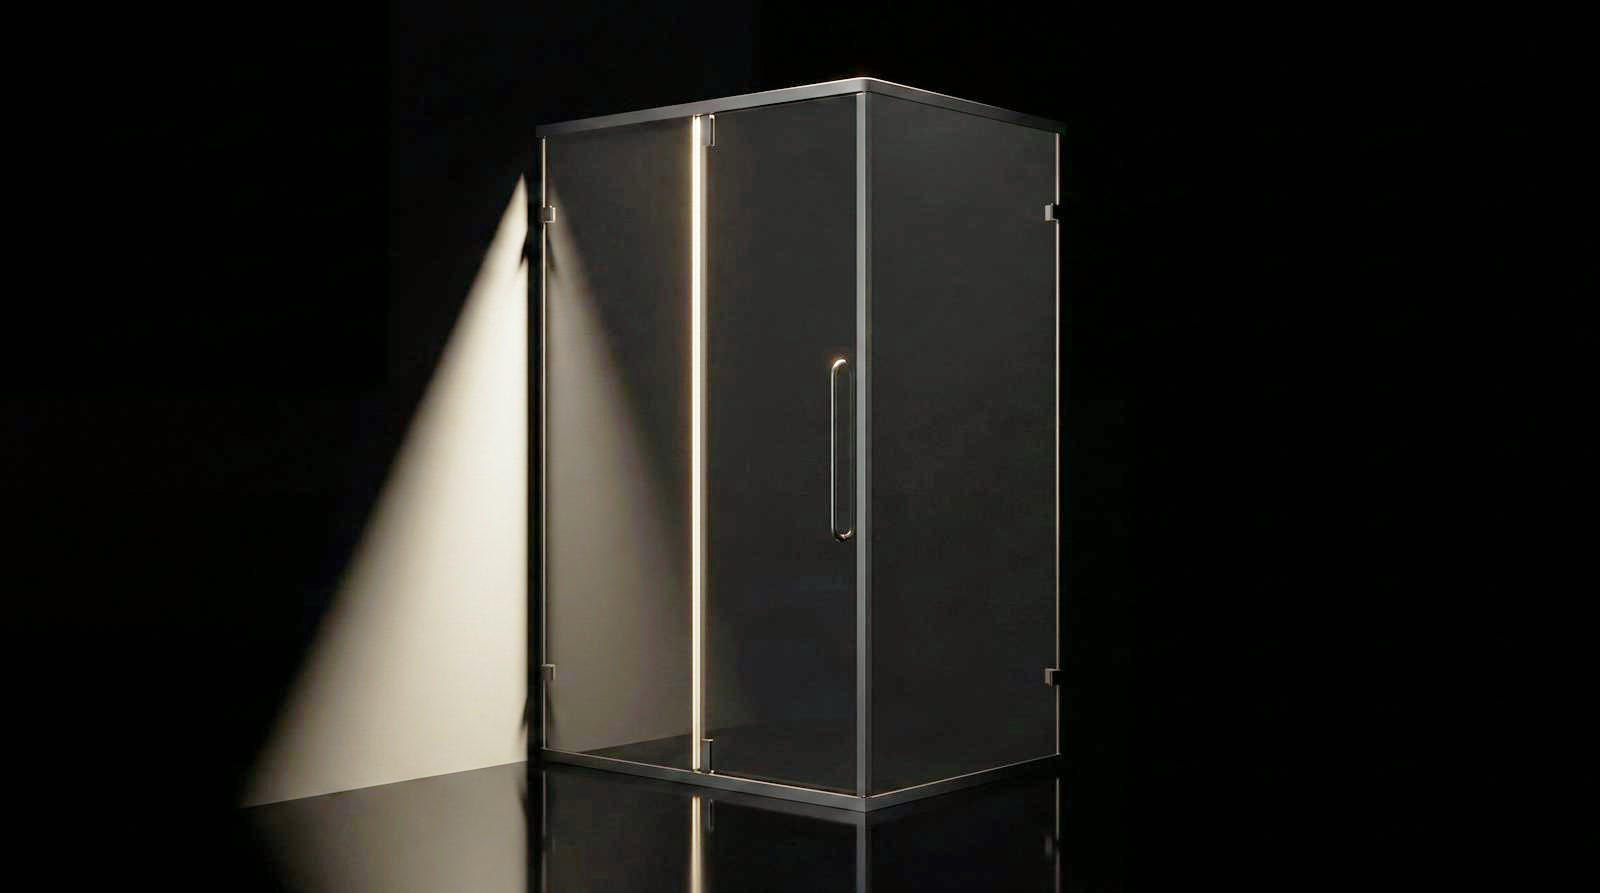
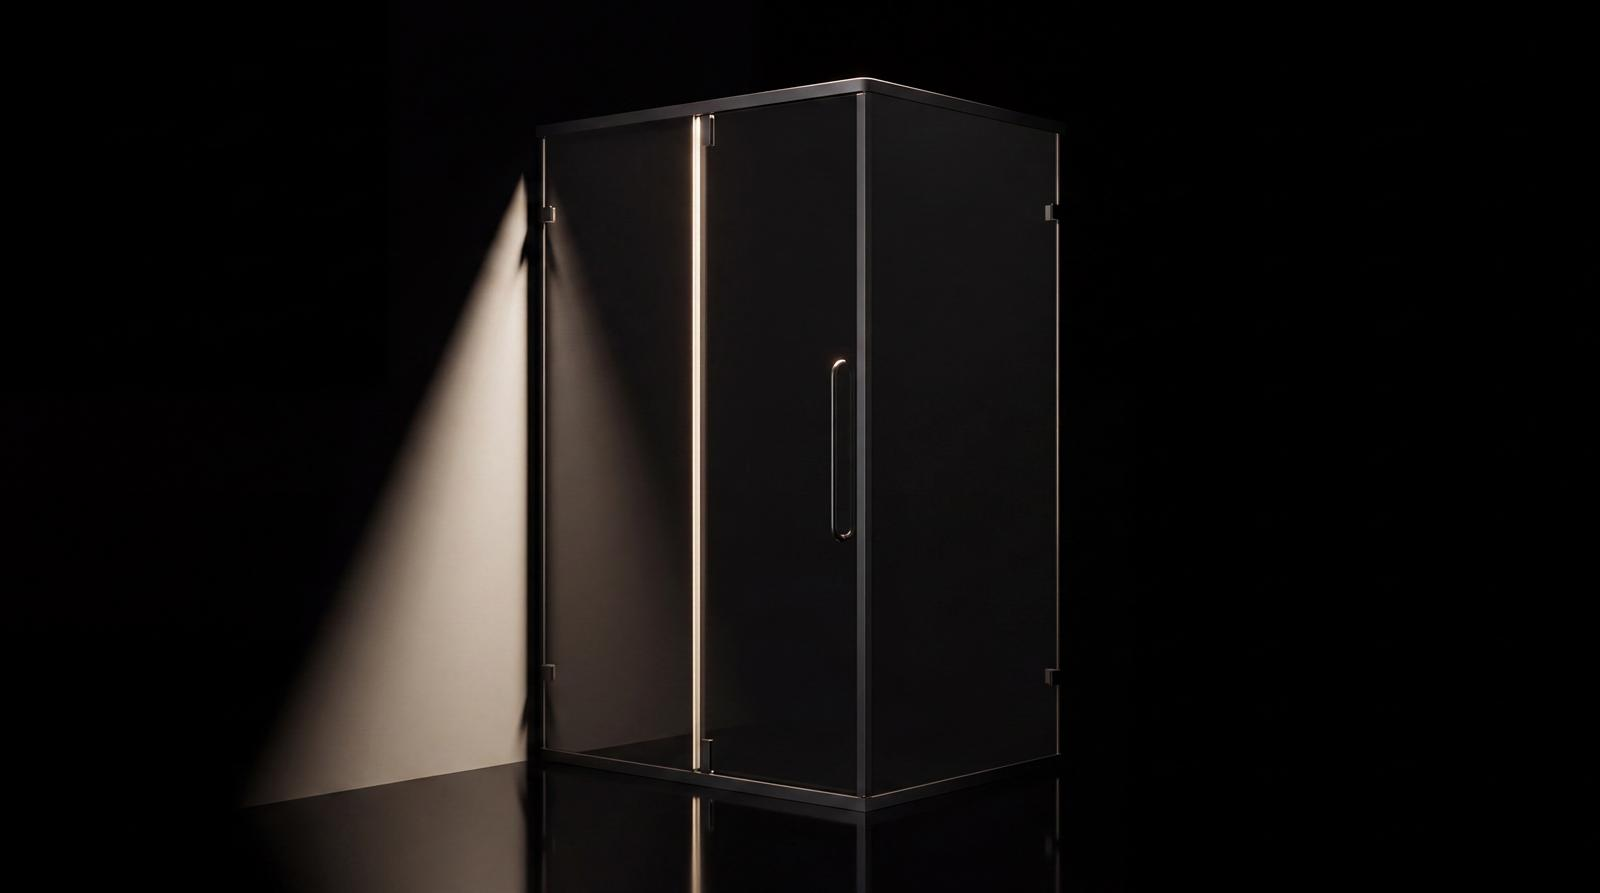
Убрать затемнение поверх фотографий брендов
Дело было не в самих снимках, а в двух слоях поверх них:
- картинка выводилась из прозрачности .3 и в конце сцены гасла
  обратно до .25, то есть почти всё время была растворена в чёрном.
  Теперь стартует с .82 и больше не гаснет;
- градиент снизу давал сплошные .62 на 42% высоты кадра, накрывая
  сам товар. Теперь затемнение прижато к нижней кромке под подпись,
  на высоте продукта почти прозрачно.

Осветление фото уголка RGW откачено - снимок не трогаем.

Changed region(s): [[0.1562, 0.0907, 0.6875, 1.0], [0.6562, 0.5745, 0.6875, 0.6047], [0.5938, 0.8466, 0.625, 0.8768]]

diff --git a/index.html b/index.html
@@ -131,8 +131,13 @@
   }
   .scene-img img{width:100%;height:100%;object-fit:cover;object-position:center}
   .scene-sticky::after{
-    content:"";position:absolute;left:0;right:0;bottom:0;height:42%;
-    background:linear-gradient(to top, rgba(0,0,0,.62), rgba(0,0,0,0));
+    content:"";position:absolute;left:0;right:0;bottom:0;height:52%;
+    background:linear-gradient(to top,
+      rgba(0,0,0,.74) 0%,
+      rgba(0,0,0,.44) 9%,
+      rgba(0,0,0,.15) 24%,
+      rgba(0,0,0,.04) 42%,
+      rgba(0,0,0,0) 100%);
     pointer-events:none;z-index:1;
   }
   .scene-body{
@@ -498,17 +503,13 @@
   document.querySelectorAll('.scene').forEach(function(sc){
     var img = sc.querySelector('.scene-img');
     var body = sc.querySelector('.scene-body');
-    gsap.fromTo(img, { scale: 1.1, autoAlpha: .3 }, {
+    gsap.fromTo(img, { scale: 1.1, autoAlpha: .82 }, {
       scale: 1, autoAlpha: 1, ease: 'none',
-      scrollTrigger: { trigger: sc, start: 'top 85%', end: '38% center', scrub: true }
+      scrollTrigger: { trigger: sc, start: 'top 85%', end: '30% center', scrub: true }
     });
     gsap.fromTo(body, { y: 60, autoAlpha: 0 }, {
       y: 0, autoAlpha: 1, ease: 'none',
       scrollTrigger: { trigger: sc, start: 'top 45%', end: '30% 30%', scrub: true }
-    });
-    gsap.to(img, {
-      autoAlpha: .25, ease: 'none',
-      scrollTrigger: { trigger: sc, start: '78% bottom', end: 'bottom bottom', scrub: true }
     });
   });
 
